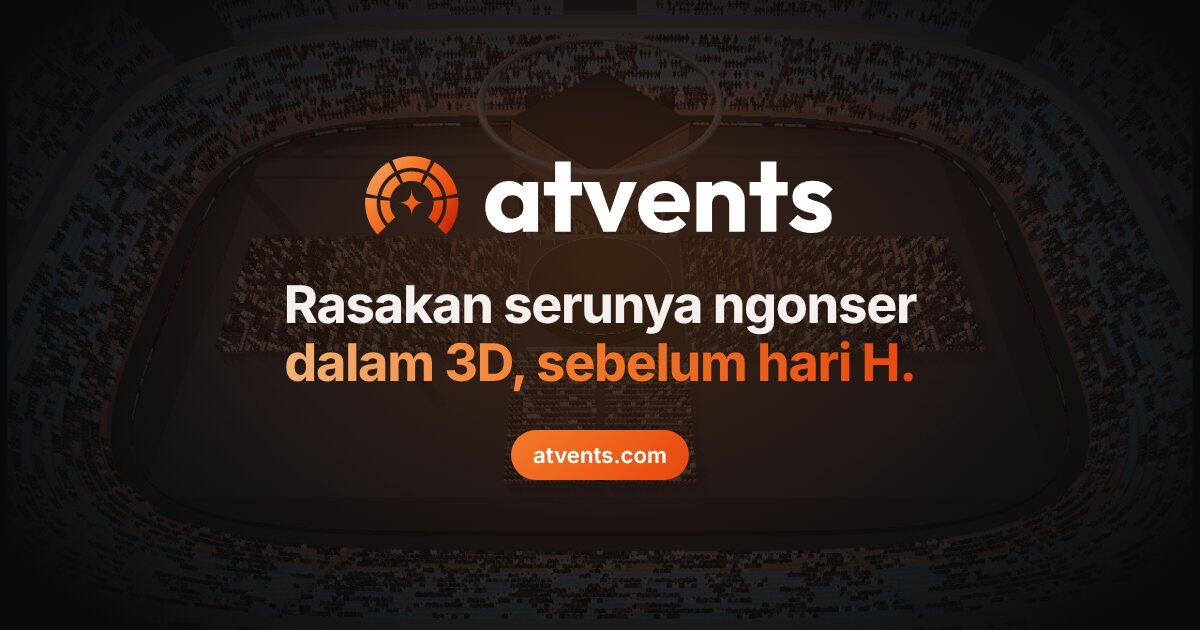
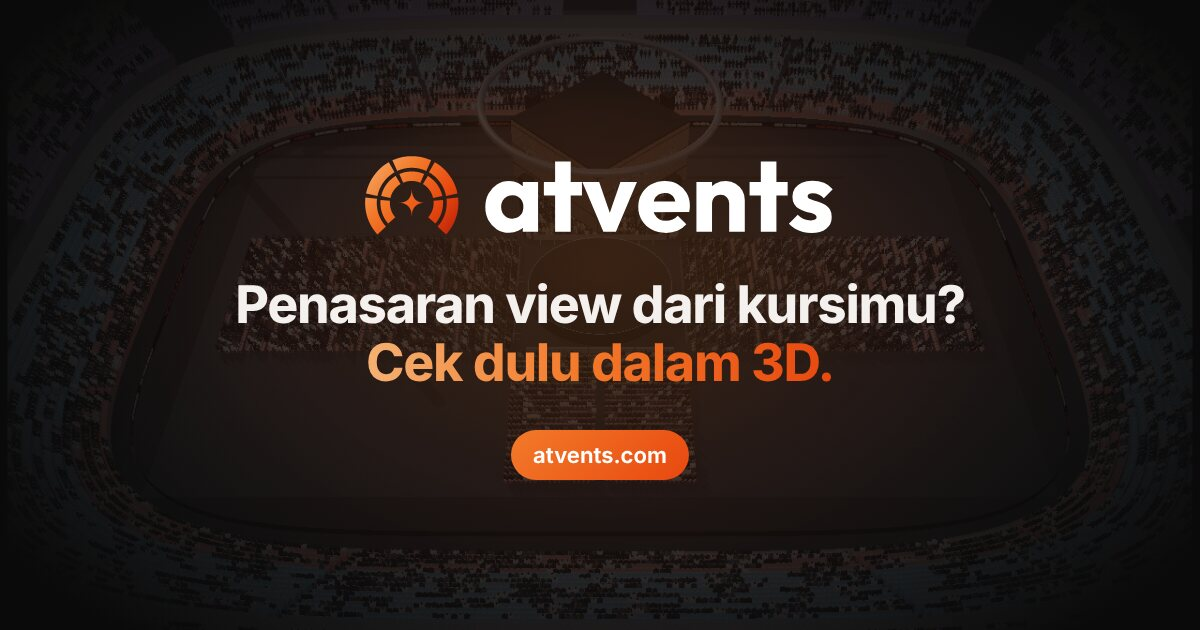
Link preview: Penasaran view dari kursimu? Cek dulu dalam 3D
Claude-Session: https://claude.ai/code/session_01UCgViviBFGfChqwP28Qps8

Changed region(s): [[0.185, 0.4524, 0.8017, 0.6333]]

diff --git a/index.html b/index.html
@@ -18,17 +18,17 @@
 <meta property="og:url" content="https://atvents.com/">
 <meta property="og:locale" content="id_ID">
 <meta property="og:locale:alternate" content="en_US">
-<meta property="og:title" content="Atvents · Rasakan serunya ngonser dalam 3D, sebelum hari H">
-<meta property="og:description" content="Sudah pegang tiket? Masukkan kursimu dan jelajahi konsernya dalam 3D: panggung, penonton, dan view dari kursimu sendiri.">
+<meta property="og:title" content="Atvents · Penasaran view dari kursimu? Cek dulu dalam 3D">
+<meta property="og:description" content="Udah dapet tiket? Masukin kursimu dan lihat view-nya dalam 3D: panggung, penonton, sampai sudut pandang dari kursimu sendiri.">
 <meta property="og:image" content="https://atvents.com/assets/share/atvents-cover.jpg?v=1">
 <meta property="og:image:secure_url" content="https://atvents.com/assets/share/atvents-cover.jpg?v=1">
 <meta property="og:image:type" content="image/jpeg">
 <meta property="og:image:width" content="1200">
 <meta property="og:image:height" content="630">
-<meta property="og:image:alt" content="Logo Atvents di atas stadion konser 3D, dengan tulisan Rasakan serunya ngonser dalam 3D, sebelum hari H.">
+<meta property="og:image:alt" content="Logo Atvents di atas stadion konser 3D, dengan tulisan Penasaran view dari kursimu? Cek dulu dalam 3D.">
 <meta name="twitter:card" content="summary_large_image">
-<meta name="twitter:title" content="Atvents · Rasakan serunya ngonser dalam 3D, sebelum hari H">
-<meta name="twitter:description" content="Sudah pegang tiket? Masukkan kursimu dan jelajahi konsernya dalam 3D: panggung, penonton, dan view dari kursimu sendiri.">
+<meta name="twitter:title" content="Atvents · Penasaran view dari kursimu? Cek dulu dalam 3D">
+<meta name="twitter:description" content="Udah dapet tiket? Masukin kursimu dan lihat view-nya dalam 3D: panggung, penonton, sampai sudut pandang dari kursimu sendiri.">
 <meta name="twitter:image" content="https://atvents.com/assets/share/atvents-cover.jpg?v=1">
 <meta name="twitter:image:alt" content="Logo Atvents di atas stadion konser 3D.">
 <link rel="canonical" href="https://atvents.com/">
